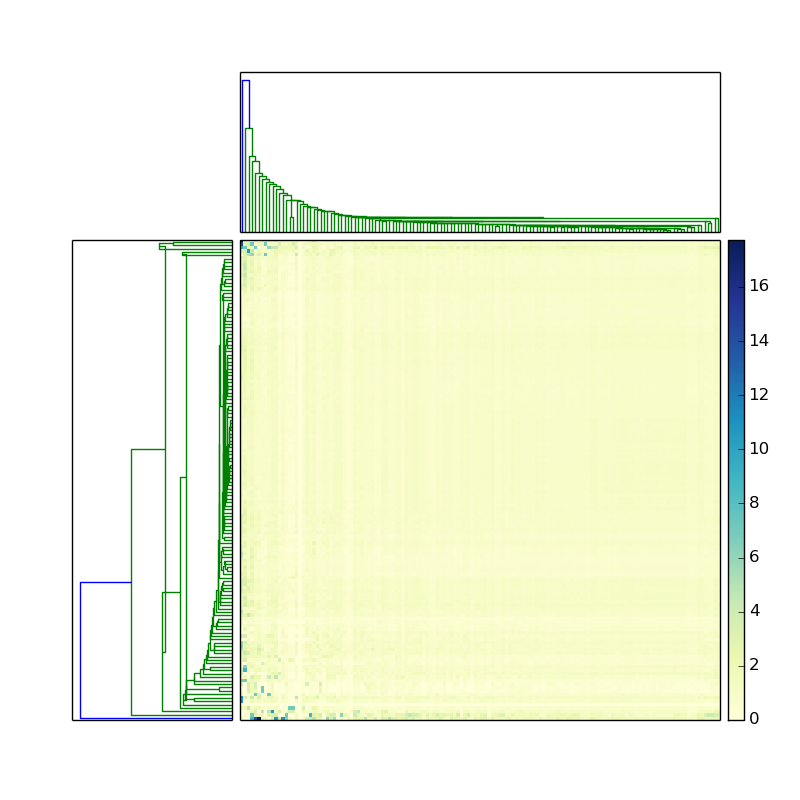
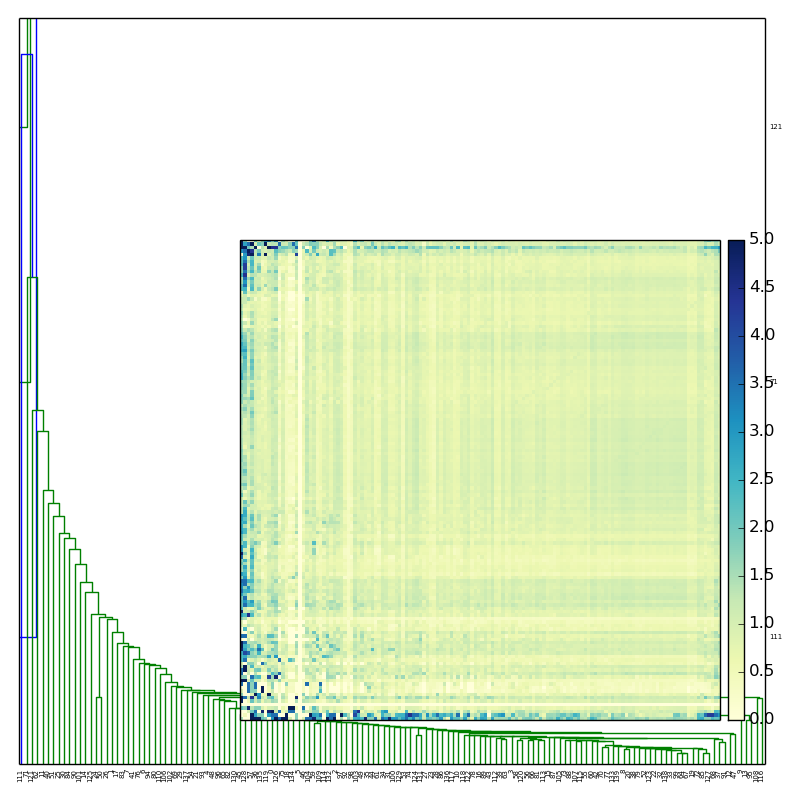
updates

diff --git a/src/create_matrix_from_bidirectional.py b/src/create_matrix_from_bidirectional.py
@@ -92,18 +92,18 @@ def run():
     # Compute and plot first dendrogram.
     D = vectors
     fig = pylab.figure(figsize=(8,8))
-    #ax1 = fig.add_axes([0.09,0.1,0.2,0.6])
+    ax1 = fig.add_axes([0.09,0.1,0.2,0.6])
     Y = sch.linkage(D, method='centroid')
     Z1 = sch.dendrogram(Y, orientation='right')
-    #ax1.set_xticks([])
-    #ax1.set_yticks([])
+    ax1.set_xticks([])
+    ax1.set_yticks([])
     
     # Compute and plot second dendrogram.
-    #ax2 = fig.add_axes([0.3,0.71,0.6,0.2])
+    ax2 = fig.add_axes([0.3,0.71,0.6,0.2])
     Y = sch.linkage(D, method='single')
     Z2 = sch.dendrogram(Y)
-    #ax2.set_xticks([])
-    #ax2.set_yticks([])
+    ax2.set_xticks([])
+    ax2.set_yticks([])
     
     # Plot distance matrix.
     axmatrix = fig.add_axes([0.3,0.1,0.6,0.6])
@@ -111,7 +111,7 @@ def run():
     idx2 = Z2['leaves']
     D = D[idx1,:]
     D = D[:,idx2]
-    im = axmatrix.matshow(D, aspect='auto', origin='lower', cmap=pylab.cm.YlGnBu,vmax=5,vmin=0)
+    im = axmatrix.matshow(D, aspect='auto', origin='lower', cmap=pylab.cm.YlGnBu,vmax=2,vmin=0)
     axmatrix.set_xticks([])
     axmatrix.set_yticks([])
     
